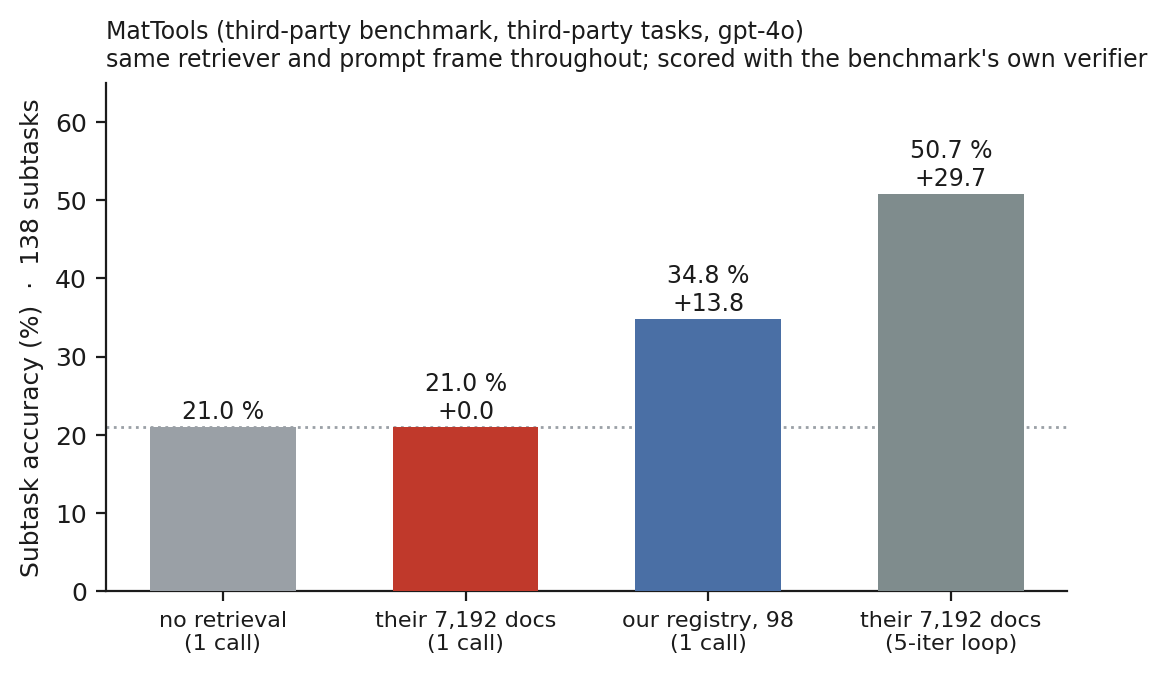
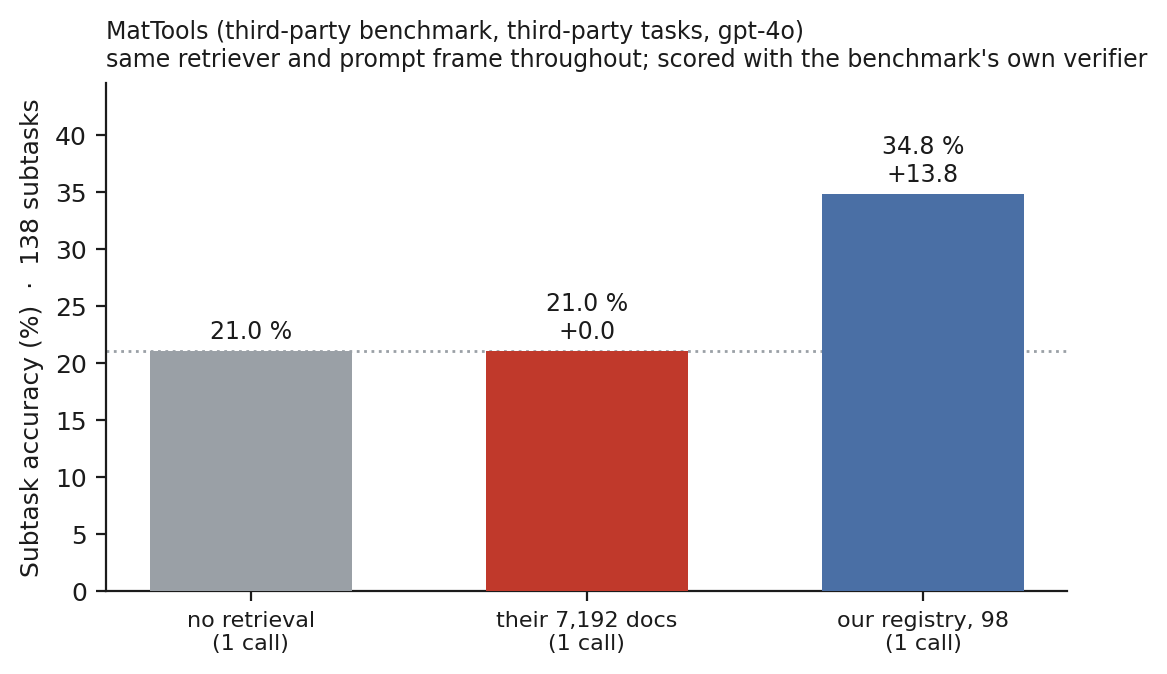
MatTools figure: matched-budget contrast only

diff --git a/code/make_rebuttal_figures.py b/code/make_rebuttal_figures.py
@@ -193,10 +193,14 @@ def fig_mattools() -> None:
                 ok += r["n_props"] - r["n_errors"]
         return 100 * ok / max(1, tot)
 
+    # The benchmark authors' own five-iteration agent loop is deliberately not
+    # plotted. The question this figure answers is whether the registry carries
+    # to another package, which is a matched-budget contrast among the three
+    # bars below; adding an arm that also changes the inference procedure would
+    # turn it into a leaderboard. That arm is reported in the README instead.
     bars = [("no retrieval\n(1 call)", "ours_mt2_baseline", MUTED),
             ("their 7,192 docs\n(1 call)", "ours_mt8_embed_theirs", ACCENT),
-            ("our registry, 98\n(1 call)", "ours_mt5_A2", FILL),
-            ("their 7,192 docs\n(5-iter loop)", "loop_theirs", "#7f8c8d")]
+            ("our registry, 98\n(1 call)", "ours_mt5_A2", FILL)]
     vals, labels, cols = [], [], []
     for label, lab, c in bars:
         v = acc(lab)
